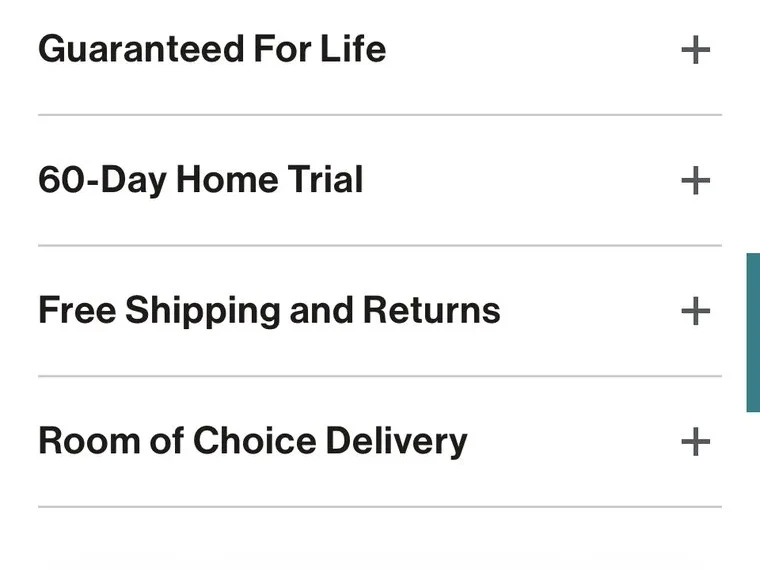
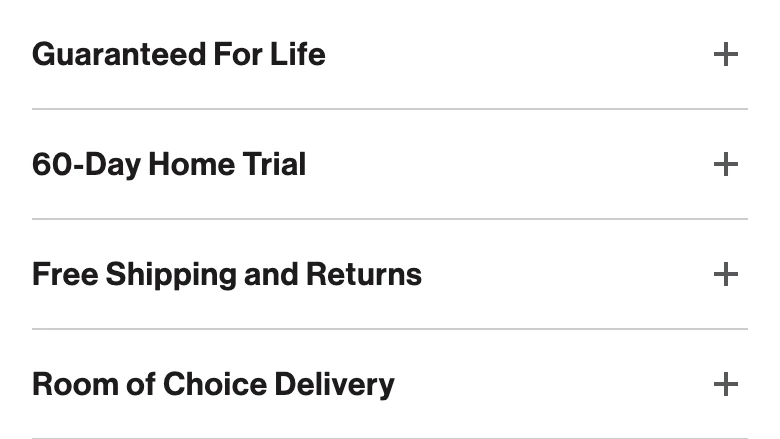
Replace trust-band-before screenshot with a cleaner capture
New screenshot starts directly at the accordion rows with no founder
photo in the frame at all, rather than a crop of one that included
it. Updated width/height to match the new image's exact dimensions.

diff --git a/work/lovesac-case-study-2.html b/work/lovesac-case-study-2.html
@@ -907,7 +907,7 @@
     <div class="nav-compare">
       <div class="nav-col before">
         <div class="nav-label"><span class="sw"></span>Lovesac.com — Sactionals PDP</div>
-        <div class="phone-frame-wide"><img src="/images/lovesac-trust-band-before.webp" width="760" height="569" loading="lazy" decoding="async" alt="Lovesac.com Sactionals product page showing four collapsed accordion rows: Guaranteed For Life, 60-Day Home Trial, Free Shipping and Returns, and Room of Choice Delivery, each hidden behind a plus icon."></div>
+        <div class="phone-frame-wide"><img src="/images/lovesac-trust-band-before.webp" width="780" height="439" loading="lazy" decoding="async" alt="Lovesac.com Sactionals product page showing four collapsed accordion rows: Guaranteed For Life, 60-Day Home Trial, Free Shipping and Returns, and Room of Choice Delivery, each hidden behind a plus icon."></div>
       </div>
       <div class="nav-col after">
         <div class="nav-label"><span class="sw"></span>Redesign — homepage</div>
